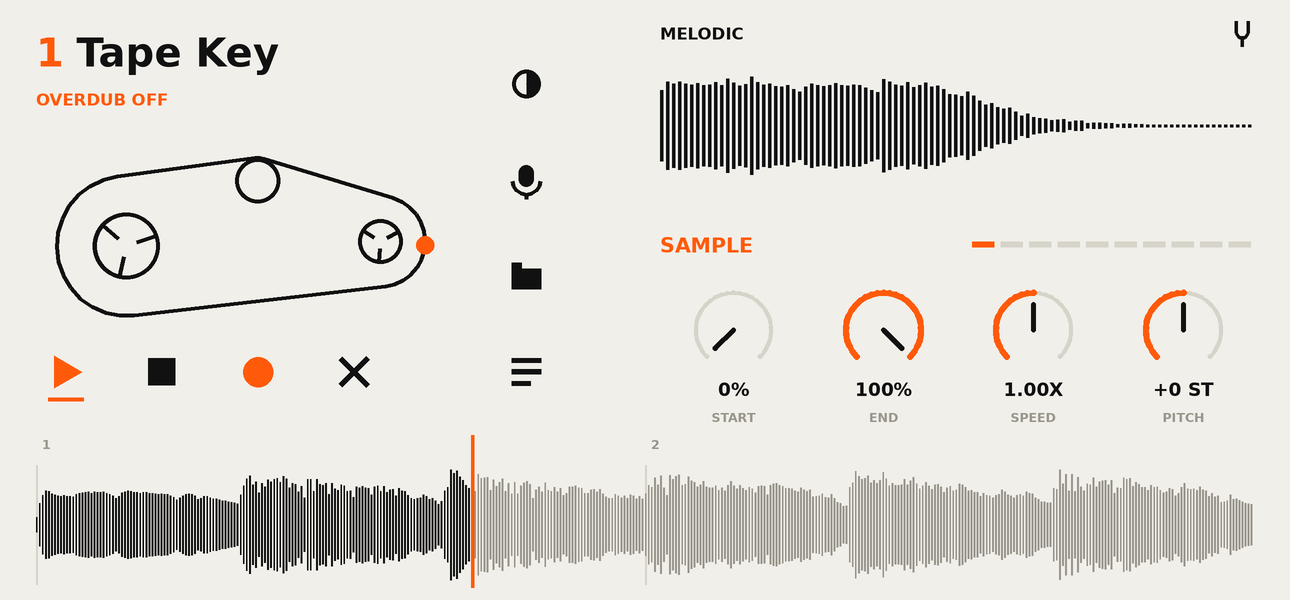
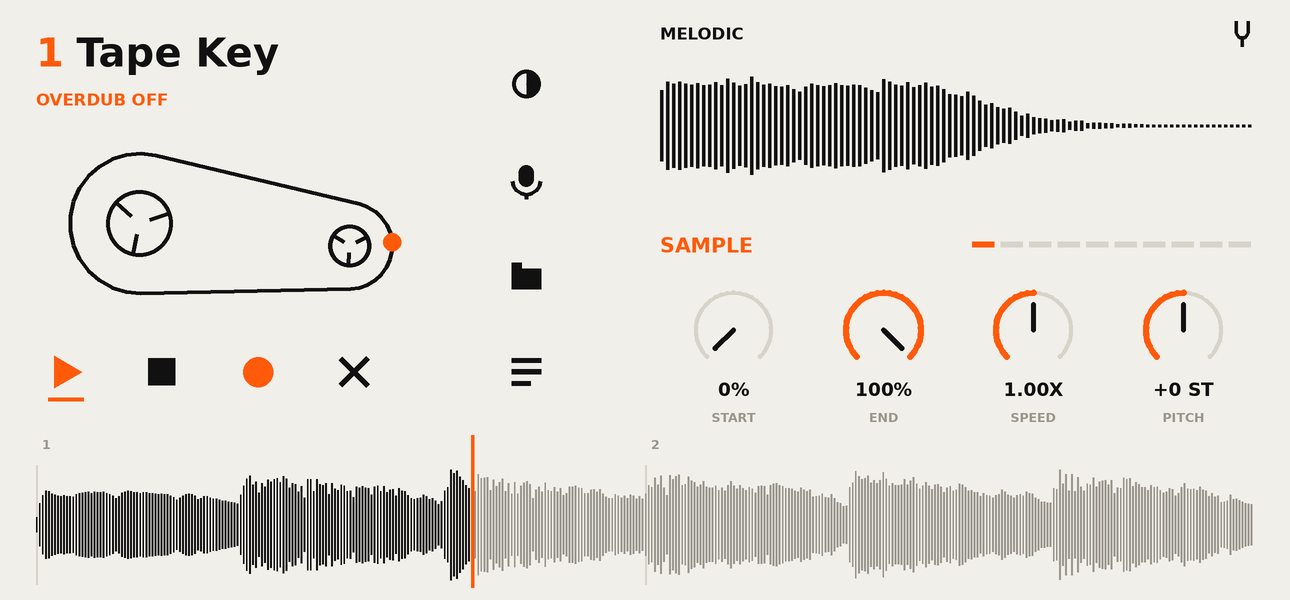
Tape loop as in the mock-up: two wheels, no roller (v0.31)

Changed region(s): [[0.031, 0.24, 0.3411, 0.54]]

diff --git a/engine/ui/SamplerUI.cpp b/engine/ui/SamplerUI.cpp
@@ -218,7 +218,7 @@ void SamplerUI::knob(float cx, float cy, SamplerApp::Page page, int idx, bool) {
         [this, page, idx](float, float y) { app_.knobs(page)[(size_t)idx].set(clamp01(dragV_ + (dragY_ - y) / 110.f)); });
 }
 
-// The tape loop: one closed ribbon over two wheels and a roller; it runs once round per loop. Without a loop it stands still.
+// The tape loop: one closed ribbon over two wheels; it runs once round per loop. Without a loop it stands still.
 void SamplerUI::cassette(Rect wd) {
     const int t = app_.track();
     const bool hasLoop = app_.loopExists() && st_.loopSamples > 0;
@@ -229,15 +229,14 @@ void SamplerUI::cassette(Rect wd) {
     // Between two posts it is a common tangent, round a post an arc: the path is built from those.
     struct Post { float x, y, r; int s; };   // s = -1: the post is inside the ribbon (it wraps round it), +1: outside
     const float W0 = wd.w, H0 = wd.h;
-    const Post posts[3] = {
-        {wd.x + 0.22f * W0, wd.y + 0.52f * H0, 0.31f * H0, -1},   // big wheel
-        {wd.x + 0.80f * W0, wd.y + 0.50f * H0, 0.20f * H0, -1},   // small wheel
-        {wd.x + 0.52f * W0, wd.y + 0.23f * H0, 0.10f * H0, -1},   // the roller: inside, under the top run, it pushes the ribbon out
+    const Post posts[2] = {
+        {wd.x + 0.25f * W0, wd.y + 0.42f * H0, 0.31f * H0, -1},   // big wheel
+        {wd.x + 0.73f * W0, wd.y + 0.52f * H0, 0.19f * H0, -1},   // small wheel
     };
     struct Seg { bool arc; float x0, y0, x1, y1, cx, cy, r, a0, da, len; };
     std::vector<Seg> segs;
     {
-        const int N = 3; float phi[N], px[N][2], qx[N][2];   // exit point of post i, entry point of post i
+        const int N = 2; float phi[N], px[N][2], qx[N][2];   // exit point of post i, entry point of post i
         for (int i = 0; i < N; i++) {
             const Post &a = posts[i], &b = posts[(i + 1) % N];
             const float dx = b.x - a.x, dy = b.y - a.y, D = std::sqrt(dx * dx + dy * dy), k = b.s * b.r - a.s * a.r;
@@ -276,9 +275,8 @@ void SamplerUI::cassette(Rect wd) {
             line(g.cx + g.r * std::cos(u0), g.cy + g.r * std::sin(u0), g.cx + g.r * std::cos(u1), g.cy + g.r * std::sin(u1), tapeCol, 2.7f);
         }
     }
-    const int t0 = std::max(1, (int)std::lround(per / (2 * kPi * posts[0].r))), t1 = std::max(1, (int)std::lround(per / (2 * kPi * posts[1].r))), t2 = std::max(1, (int)std::lround(per / (2 * kPi * posts[2].r)));
+    const int t0 = std::max(1, (int)std::lround(per / (2 * kPi * posts[0].r))), t1 = std::max(1, (int)std::lround(per / (2 * kPi * posts[1].r)));
     reel(posts[0].x, posts[0].y, posts[0].r, -turn * 2 * kPi * t0); reel(posts[1].x, posts[1].y, posts[1].r, -turn * 2 * kPi * t1);
-    (void)t2; circle(posts[2].x, posts[2].y, posts[2].r, tapeCol); circle(posts[2].x, posts[2].y, posts[2].r - 2.7f, kBg);
     float x, y; at(turn * per, x, y); circle(x, y, 6, recNow ? kPaper : kOrange);
 }
 

diff --git a/README.md b/README.md
@@ -53,7 +53,7 @@ APK and the flash page of the matching firmware are attached to the [releases](.
 ## Phone screen (the deck)
 One visual system (light by default, dark one tap away): one grid, one line weight (2.7 units), ink + a dim tone + one orange for what is live, solid shapes, no frames, no cards. Laid out for 400 units of height, margin 24.
 - **Header** (top left): the track number (orange, tap = next track), the sample name (tap = library) and under it the position in the loop (a toast or the microphone state replaces it for a moment).
-- **Tape loop**: one closed ribbon over a big and a small wheel and one roller inside the loop that pushes it out (built from common tangents + arcs), it runs once round per loop, the orange dot is the splice = loop start. Without a loop it stands still.
+- **Tape loop**: one closed ribbon over a big and a small wheel (built from common tangents + arcs), it runs once round per loop, the orange dot is the splice = loop start. Without a loop it stands still.
 - **Transport** under it, icons only: PLAY, STOP, REC (OVERDUB when a loop exists), CLEAR (clears the loop of the selected track); the active one is orange with an underline. While recording PLAY / STOP only ends the recording (the loop plays on), the next press stops the tape. Start and stop are tape-like (run-up 0.45 s, slow-down 0.7 s, level follows the speed).
 - **Tools column** (middle, 64 units pitch, the lowest icon on the transport row): theme (light / dark, remembered in `<data dir>/theme`), microphone, file from disk, project menu (`projectSheet`: save / clear loop, clear all (tap twice), loop x2 and /2, loop source, open the editor).
 - **Sample view** (top right): the waveform with the playback window dark, the playback mode on top (tap = next mode), one orange line per sounding voice (height follows the voice envelope), the voice count, the tuning fork (auto-tune, MELODIC / ONE-SHOT only). While a microphone take waits for sound the view shows the input level and two trigger lines (drag up / down to set the level) and one STOP / CANCEL button; while it records, the growing take (normalised).
